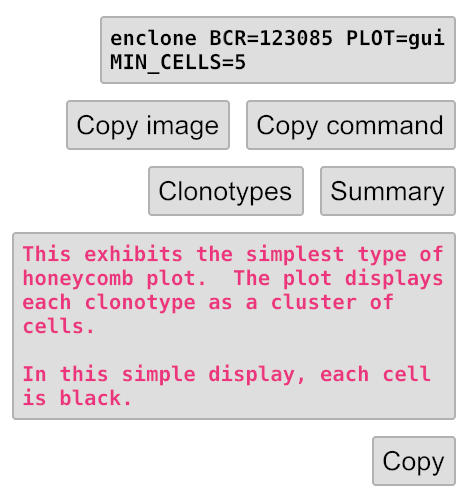
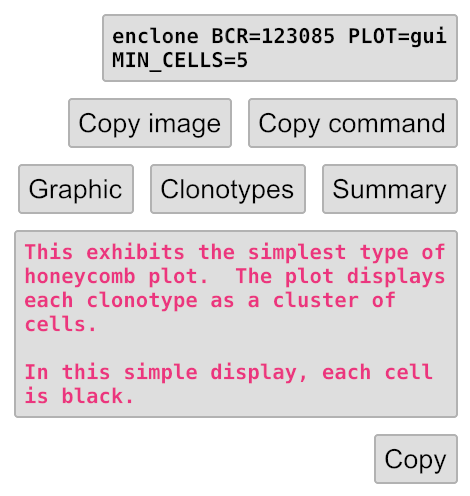
update help page

diff --git a/enclone_visual/src/help.rs b/enclone_visual/src/help.rs
@@ -412,8 +412,8 @@ pub fn help(slf: &mut gui_structures::EncloneVisual) -> Element<Message> {
                         .push(
                             Text::new(
                                 "Below that is a button to open a window displaying just the \
-                                clonotypes, and a button to display the summary \
-                                stats for your enclone command.",
+                                graphic, and one for just the clonotypes, and a button to display \
+                                the summary stats for your enclone command.",
                             )
                             .width(Units((slf.width - 350) as u16)),
                         )
